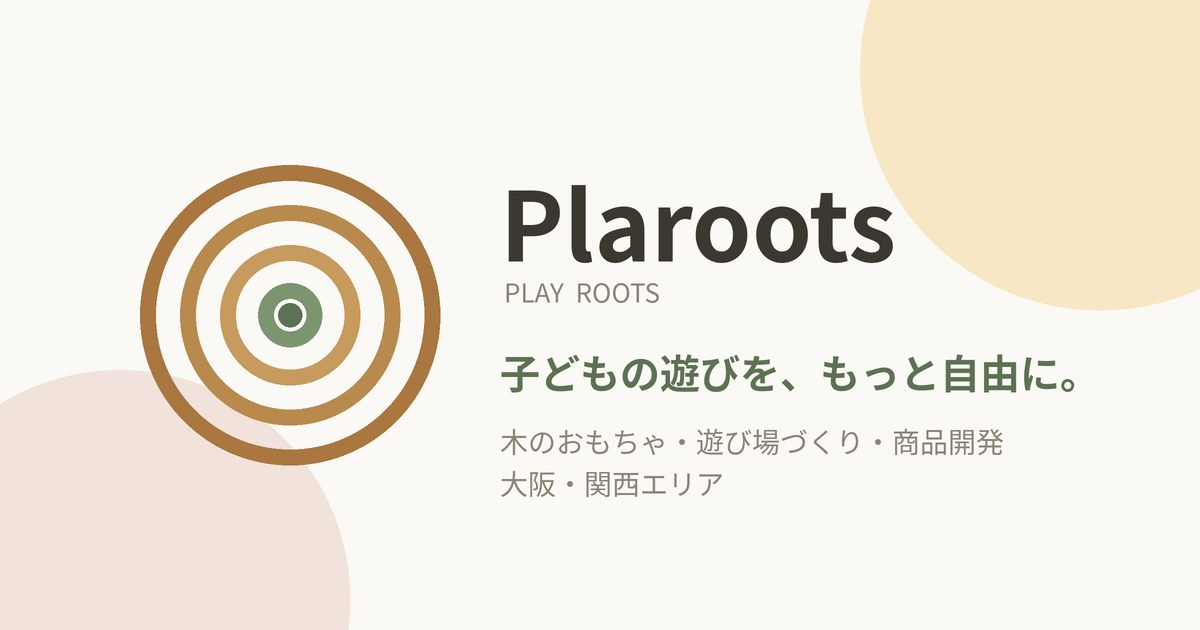
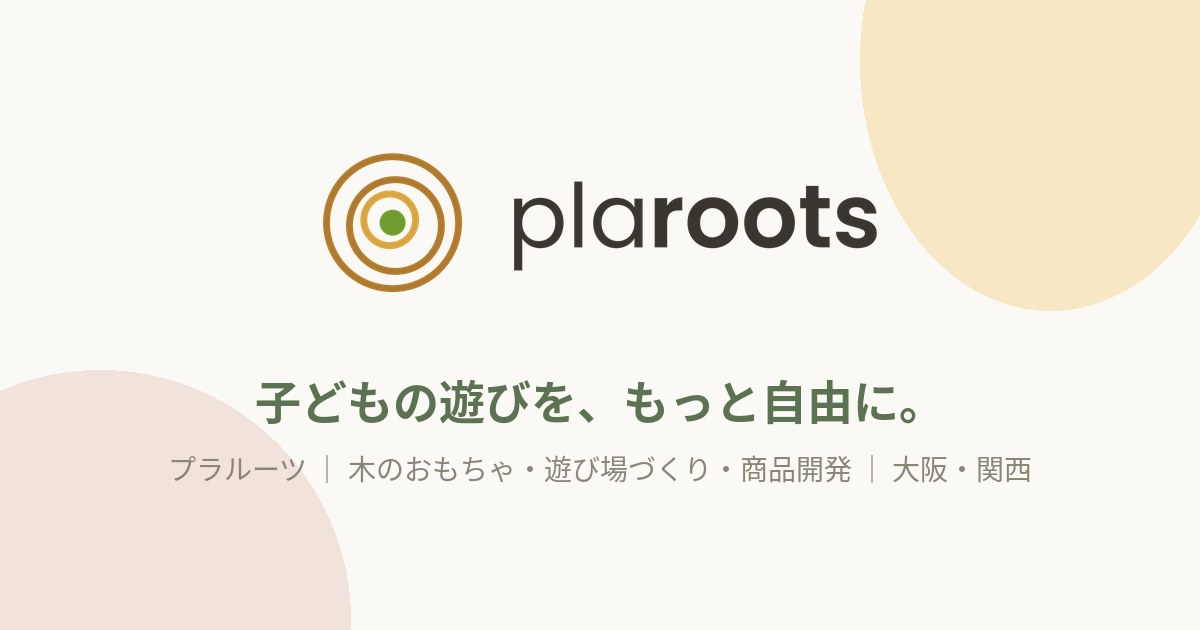
共有画像を公式ロゴ版に更新、404ページのfaviconパス修正
Claude-Session: https://claude.ai/code/session_01UtKT3KPQ1yLDaeYjKFQjjS

diff --git a/404.html b/404.html
@@ -6,8 +6,8 @@
 <title>ページが見つかりません｜plaroots</title>
 <meta name="robots" content="noindex">
 <meta name="theme-color" content="#7D9471">
-<link rel="icon" href="kodomo-site/assets/logo/favicon.ico">
-<link rel="apple-touch-icon" href="kodomo-site/assets/logo/apple-touch-icon.png">
+<link rel="icon" href="/kodomo-site/assets/logo/favicon.ico">
+<link rel="apple-touch-icon" href="/kodomo-site/assets/logo/apple-touch-icon.png">
 <link href="https://fonts.googleapis.com/css2?family=Zen+Maru+Gothic:wght@500;700&family=Noto+Sans+JP:wght@400&display=swap" rel="stylesheet">
 <style>
   body{margin:0;min-height:100vh;display:flex;align-items:center;justify-content:center;background:#FBF9F5;color:#3B382F;
